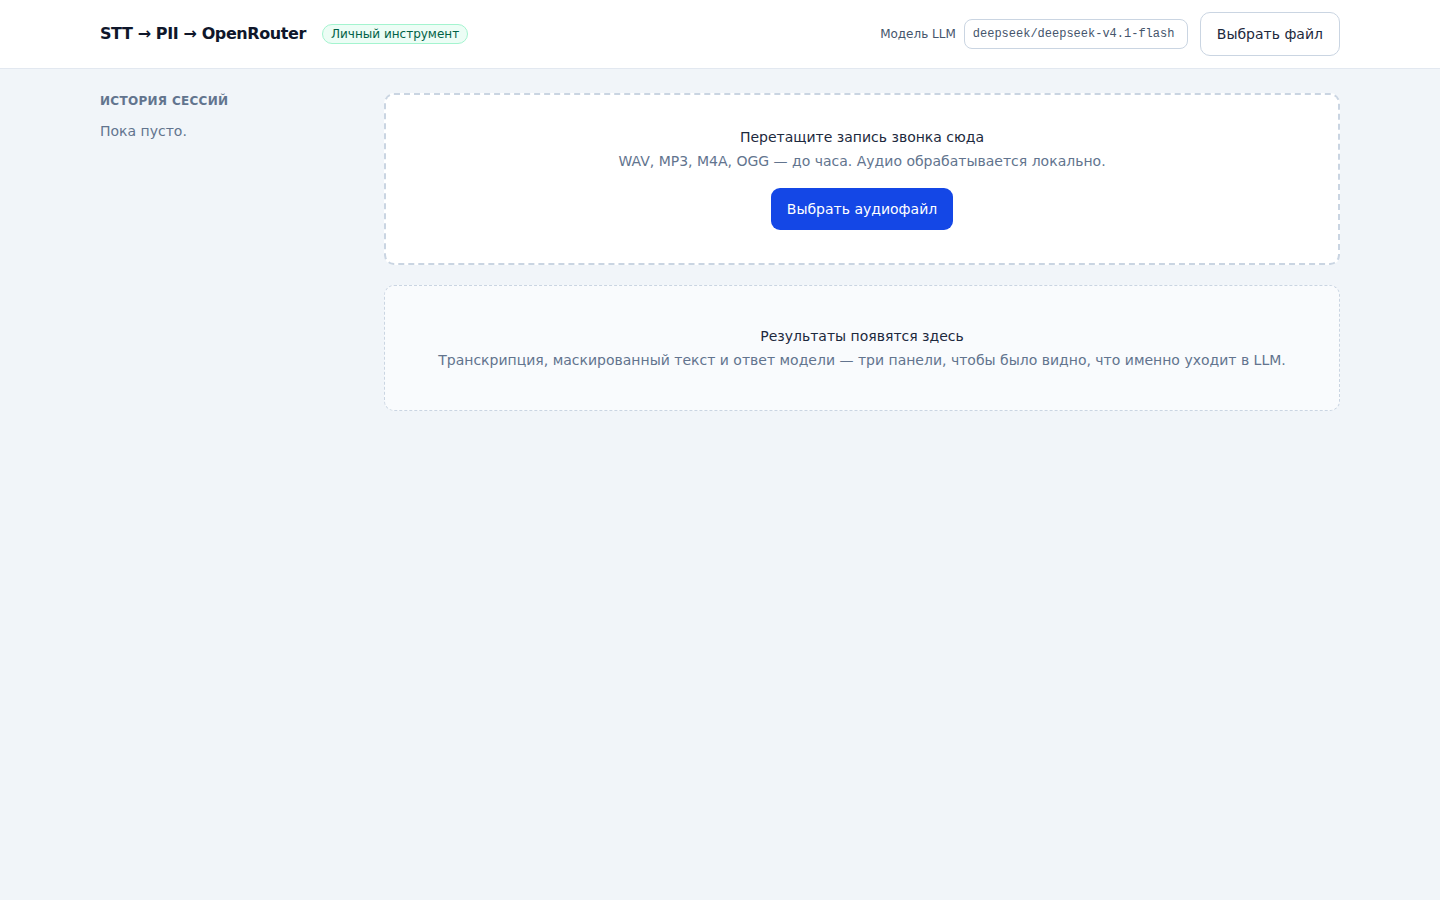
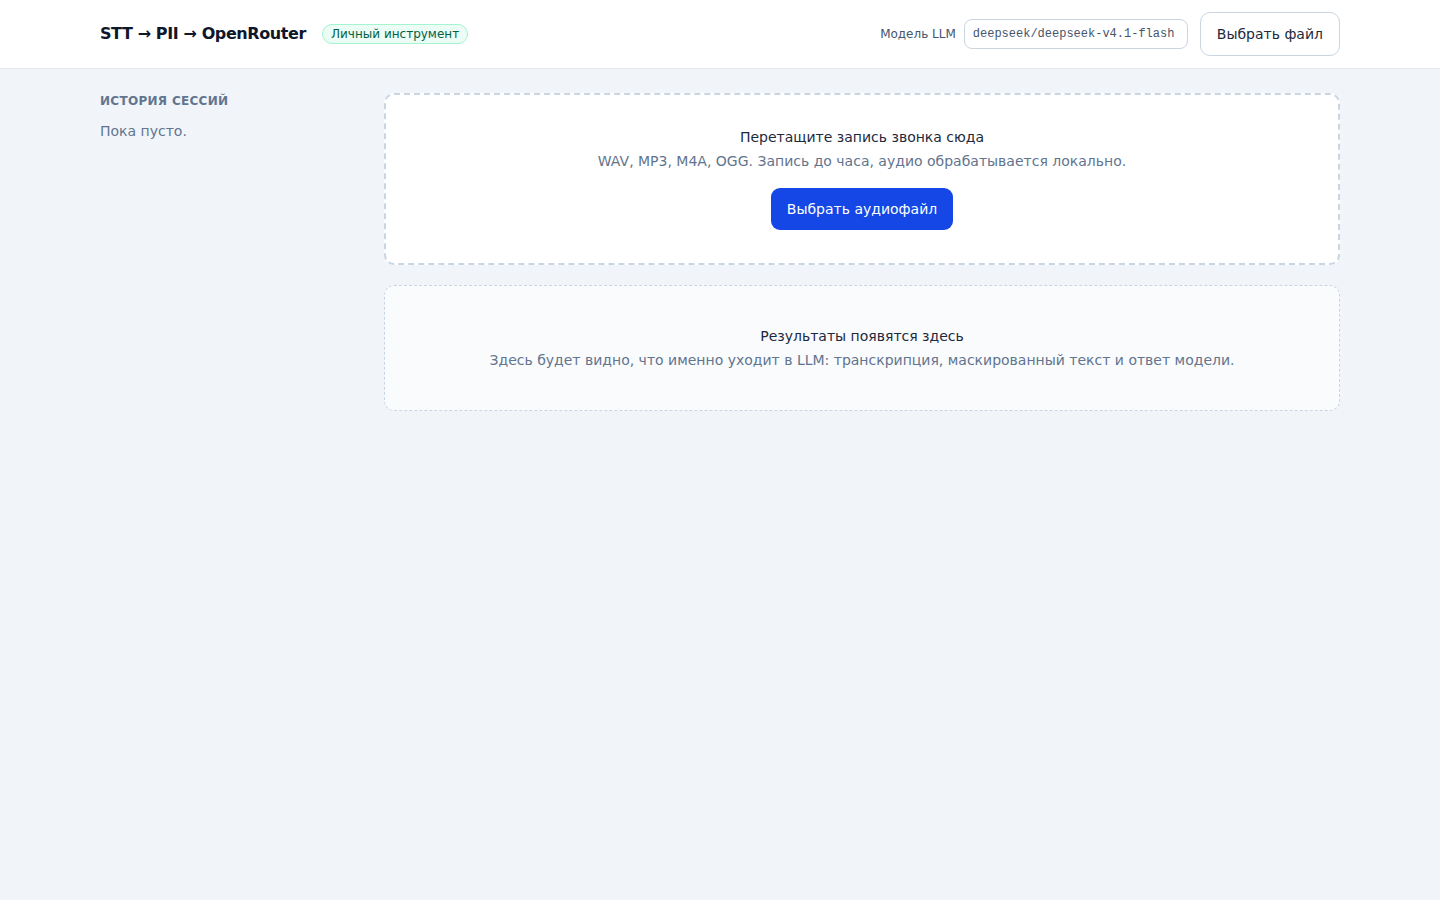
fix: убрать длинные тире из UI-копии и обновить скриншоты
Проверка на маркеры AI slop (humanizer-ru) нашла в тексте UI три длинных
тире: подсказка зоны загрузки, хинт пустого состояния и заголовок панели 2.
Длинное тире это жёсткий маркер нейросетевого текста, снят перестройкой фразы
без изменения смысла.

- «WAV, MP3, M4A, OGG. Запись до часа, аудио обрабатывается локально.»
- «Здесь будет видно, что именно уходит в LLM: транскрипция, маскированный
  текст и ответ модели.»
- «2 · Маскированный текст (уходит в LLM)»

Сканер: было 96/100, стало 100/100, «тире чисто», HARD BANS чисто.
Скриншоты пересняты с текущего UI, чтобы в репозитории не остались старые.

Changed region(s): [[0.3125, 0.3733, 0.875, 0.4044], [0.4062, 0.1556, 0.7812, 0.1867]]

diff --git a/web/src/App.tsx b/web/src/App.tsx
@@ -147,7 +147,7 @@ export default function App() {
             />
             <p className="text-sm font-medium text-slate-800">Перетащите запись звонка сюда</p>
             <p className="mt-1 text-sm text-slate-500">
-              WAV, MP3, M4A, OGG — до часа. Аудио обрабатывается локально.
+              WAV, MP3, M4A, OGG. Запись до часа, аудио обрабатывается локально.
             </p>
             <div className="mt-4">
               <Button onClick={() => inputRef.current?.click()} disabled={busy}>
@@ -172,7 +172,7 @@ export default function App() {
           {!result && !busy && !error ? (
             <EmptyState
               title="Результаты появятся здесь"
-              hint="Транскрипция, маскированный текст и ответ модели — три панели, чтобы было видно, что именно уходит в LLM."
+              hint="Здесь будет видно, что именно уходит в LLM: транскрипция, маскированный текст и ответ модели."
             />
           ) : null}
 
@@ -196,7 +196,7 @@ export default function App() {
               </Card>
 
               <Card
-                title="2 · Маскированный текст — именно он уходит в LLM"
+                title="2 · Маскированный текст (уходит в LLM)"
                 accent="#1d4ed8"
                 meta={
                   <span className="font-mono">
